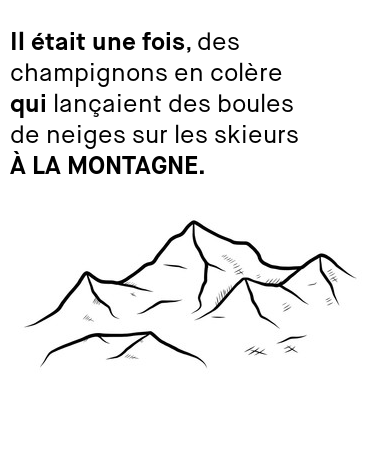
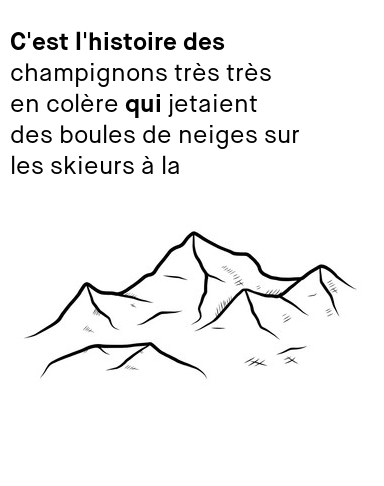
feat(style) : refacto

Changed region(s): [[0.0312, 0.0615, 0.7812, 0.4], [0.0625, 0.4615, 0.9375, 0.8], [0.625, 0.7385, 0.6875, 0.8]]

diff --git a/webserver.py b/webserver.py
@@ -4,8 +4,7 @@
 from BaseHTTPServer import BaseHTTPRequestHandler, HTTPServer
 import os
 import commands
-from PIL import Image, ImageDraw, ImageFont
-import textwrap
+import storydesign
 
 # custom HTTPrequestHandler class
 class Server(BaseHTTPRequestHandler):
@@ -34,12 +33,10 @@ class Server(BaseHTTPRequestHandler):
 	story = split_data[1] #retrieve the text
 	
 	# run the command to print the image
-	filename = "assets/texts/story"
-	fileformat = ".png"
-	width = 384
-	bg_color = "#FFF"
-	font_size = 25
-	text_transform(story, filename, fileformat, width, bg_color, font_size)
+	paper = storydesign.StoryDesign()
+	filename = paper.filename
+	fileformat = paper.fileformat
+        paper.text_in_img(story)
 	#os.system('lpr -o fit-to-page ' + filename + fileformat + '')
 	#os.system('lpr ' + filename + fileformat + '')
 	print story
@@ -54,110 +51,8 @@ def run(server_class=HTTPServer, handler_class=Server):
 	server_address = (host, port)
 	http_connexion = server_class(server_address, handler_class)
 	print "Web server is running on " + host + "..."
-	#text_transform("Il était une fois, des tortues géantes qui nageaient dans l'océan Atlantique.", "texts/story", ".png", 384, "#FFF", 25, text_color='#000')
 	http_connexion.serve_forever()
-	
-# transform the text in png
-def text_transform(text, filename, fileformat, width, bg_color, font_size, text_color='#000'):
-    
-    custom_words = [
-        "Il était une fois",
-        "C'est l'histoire des",
-        "Il y a bien longtemps",
-        "qui",
-        "et",
-        "Soudain",
-        "Un jour",
-        "Tout à coup",
-        "à la montagne."
-    ]
-    
-    # fonts
-    maison_neue_book = 'assets/fonts/Maison-Neue/Maison Neue Book.otf'
-    maison_neue_bold = 'assets/fonts/Maison-Neue/Maison Neue Bold.otf'
-    text_maison_neue_book = ImageFont.truetype(maison_neue_book, font_size, encoding="unic")
-    text_maison_neue_bold = ImageFont.truetype(maison_neue_bold, font_size, encoding="unic")
-    
-    # multiline_text : text wrap
-    story_lines = textwrap.wrap(text, width=25)
-    nb_lines = len(story_lines)
-    font_width, font_height = text_maison_neue_book.getsize(text)
-    top = 30
-    spacing = font_height + 5
-    images_height = 0
-    # get the images height for drawImage
-    for story_line in story_lines:
-        for expression in custom_words:
-            begin = story_line.find(expression)
-            if begin >= 0: #has the expression
-                end = begin + len(expression)
-                strong = story_line[begin:end]
-                if strong == "à la montagne.":
-                    custom_img = Image.open("assets/img/mountains.jpg")
-                    img_width, img_height = custom_img.size
-                    images_height += img_height    
-    height = 2 * top + nb_lines * spacing + images_height # img height : margin-top + text + margin-bottom
-    img = Image.new('L', (width, height), bg_color)
-    context = ImageDraw.Draw(img) #create a drawing context
-
-    
-    for story_line in story_lines:
-        show_sentence = 1
         
-        # TODO prepare the text treatment : images, fonts... : go trought the text to detect words
-        for expression in custom_words:
-            
-            begin = story_line.find(expression)
-            left = 10
-            
-            if begin >= 0: #has the expression
-                show_sentence = 0
-                end = begin + len(expression)
-                
-                if begin == 0:
-                    before = ""
-                else:
-                    before = story_line[0:begin]
-                before = unicode(before, 'UTF-8') # encode text : correct before print
-                before_width, before_height = text_maison_neue_book.getsize(before) # get text width
-                context.multiline_text((left,top), before, fill=text_color, font=text_maison_neue_book) # draw text
-                left = left + before_width
-
-                strong = story_line[begin:end]
-                
-                if strong == "à la montagne.":
-                    if begin > 0: # pas le premier mot : retour à la ligne
-                        top += spacing
-                    strong = unicode(strong, 'UTF-8').upper()
-                    strong_width, strong_height = text_maison_neue_bold.getsize(strong)
-                    context.multiline_text((10,top), strong, fill=text_color, font=text_maison_neue_bold)
-                    custom_img = Image.open("assets/img/mountains.jpg")
-                    img.paste(custom_img, (10, top + strong_height))
-                    
-                else:
-                    strong = unicode(strong, 'UTF-8')
-                    strong_width, strong_height = text_maison_neue_bold.getsize(strong)
-                    context.multiline_text((left,top), strong, fill=text_color, font=text_maison_neue_bold)
-                left = left + strong_width
-                
-                if end == len(story_line):
-                    after = ""
-                else:
-                    after = story_line[end:len(story_line)]
-                after = unicode(after, 'UTF-8')
-                after_width, after_height = text_maison_neue_book.getsize(after)
-                context.multiline_text((left,top), after, fill=text_color, font=text_maison_neue_book)
-                break
-                
-        if show_sentence == 1: #hasn't the expression
-            story_line = unicode(story_line, 'UTF-8')
-            context.text((left,top), story_line, fill=text_color, font=text_maison_neue_book) 
-            
-        top += spacing
-    
-    del context # destroy drawing context
-    img.save(filename + fileformat, "PNG")
-    
 
 # run only the function in this file and not in an import
 if __name__ == '__main__':

diff --git a/storydesign.py b/storydesign.py
@@ -1,0 +1,118 @@
+#!/usr/bin/env python
+# coding: utf8
+
+from PIL import Image, ImageDraw, ImageFont
+import textwrap
+
+class StoryDesign():
+    
+    def __init__(self):
+         self.text = ""
+         self.filename = "assets/texts/story"
+         self.fileformat = ".png"
+         self.width = 384
+         self.bg_color = "#FFF"
+         self.font_size = 25
+         self.text_color = "#000"
+    
+    def text_in_img(self, story):
+        # highlight words
+        custom_words = [
+            "Il était une fois",
+            "C'est l'histoire des",
+            "Il y a bien longtemps",
+            "qui",
+            "et",
+            "Soudain",
+            "Un jour",
+            "Tout à coup",
+            "montagne."
+        ]
+        
+        # fonts
+        maison_neue_book = 'assets/fonts/Maison-Neue/Maison Neue Book.otf'
+        maison_neue_bold = 'assets/fonts/Maison-Neue/Maison Neue Bold.otf'
+        text_maison_neue_book = ImageFont.truetype(maison_neue_book, self.font_size, encoding="unic")
+        text_maison_neue_bold = ImageFont.truetype(maison_neue_bold, self.font_size, encoding="unic")
+        
+        # multiline_text : text wrap
+        self.text = story
+        story_lines = textwrap.wrap(self.text, width=25)
+        nb_lines = len(story_lines)
+        font_width, font_height = text_maison_neue_book.getsize(self.text)
+        top = 30
+        spacing = font_height + 5
+        images_height = 0
+        # get the images height for drawImage
+        for story_line in story_lines:
+            for expression in custom_words:
+                begin = story_line.find(expression)
+                if begin >= 0: #has the expression
+                    end = begin + len(expression)
+                    strong = story_line[begin:end]
+                    if strong == "montagne.":
+                        custom_img = Image.open("assets/img/mountains.jpg")
+                        img_width, img_height = custom_img.size
+                        images_height += img_height    
+        height = 2 * top + nb_lines * spacing + images_height # img height : margin-top + text + margin-bottom
+        img = Image.new('L', (self.width, height), self.bg_color)
+        context = ImageDraw.Draw(img) #create a drawing context
+
+        
+        for story_line in story_lines:
+            show_sentence = 1
+            
+            # TODO prepare the text treatment : images, fonts... : go trought the text to detect words
+            for expression in custom_words:
+                
+                begin = story_line.find(expression)
+                left = 10
+                
+                if begin >= 0: #has the expression
+                    show_sentence = 0
+                    end = begin + len(expression)
+                    
+                    if begin == 0:
+                        before = ""
+                    else:
+                        before = story_line[0:begin]
+                    before = unicode(before, 'UTF-8') # encode text : correct before print
+                    before_width, before_height = text_maison_neue_book.getsize(before) # get text width
+                    context.multiline_text((left,top), before, fill=self.text_color, font=text_maison_neue_book) # draw text
+                    left = left + before_width
+
+                    strong = story_line[begin:end]
+                    
+                    if strong == "montagne.":
+                        if begin > 0: # pas le premier mot : retour à la ligne
+                            top += spacing
+                        #strong = unicode(strong, 'UTF-8').upper()
+                        #strong_width, strong_height = text_maison_neue_bold.getsize(strong)
+                        #context.multiline_text((10,top), strong, fill=text_color, font=text_maison_neue_bold)
+                        custom_img = Image.open("assets/img/mountains.jpg")
+                        #img.paste(custom_img, (10, top + strong_height))
+                        img.paste(custom_img, (10, top))
+                        
+                    else:
+                        strong = unicode(strong, 'UTF-8')
+                        strong_width, strong_height = text_maison_neue_bold.getsize(strong)
+                        context.multiline_text((left,top), strong, fill=self.text_color, font=text_maison_neue_bold)
+                    left = left + strong_width
+                    
+                    if end == len(story_line):
+                        after = ""
+                    else:
+                        after = story_line[end:len(story_line)]
+                    after = unicode(after, 'UTF-8')
+                    after_width, after_height = text_maison_neue_book.getsize(after)
+                    context.multiline_text((left,top), after, fill=self.text_color, font=text_maison_neue_book)
+                    break
+                    
+            if show_sentence == 1: #hasn't the expression
+                story_line = unicode(story_line, 'UTF-8')
+                context.text((left,top), story_line, fill=self.text_color, font=text_maison_neue_book) 
+                
+            top += spacing
+        
+        del context # destroy drawing context
+        img.save(self.filename + self.fileformat, "PNG")
